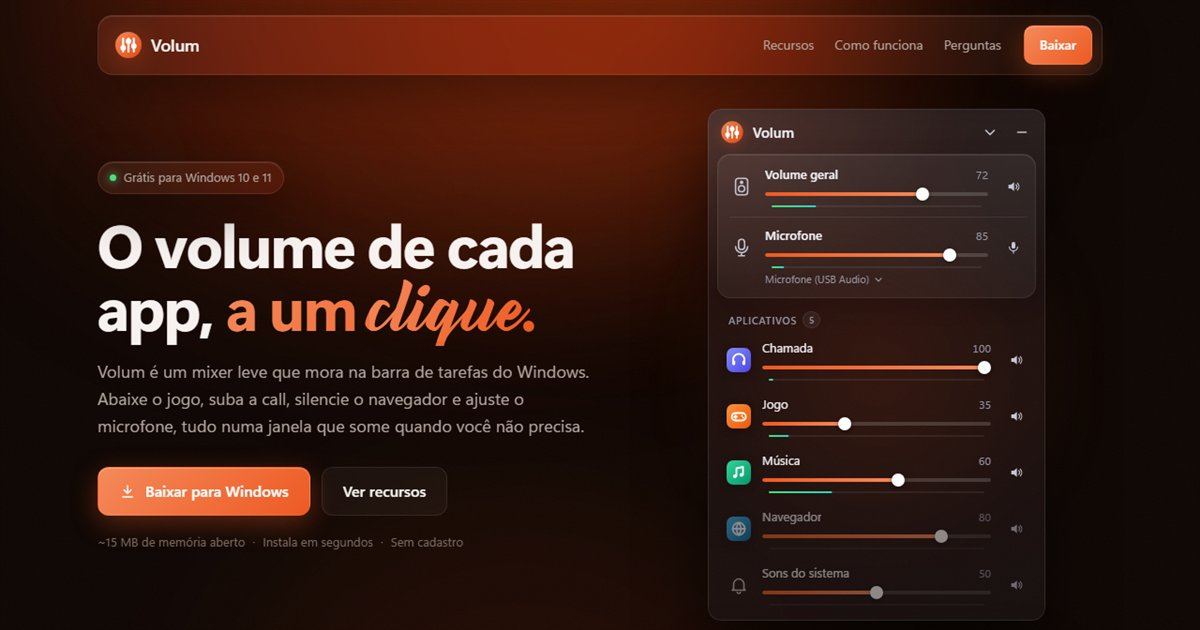
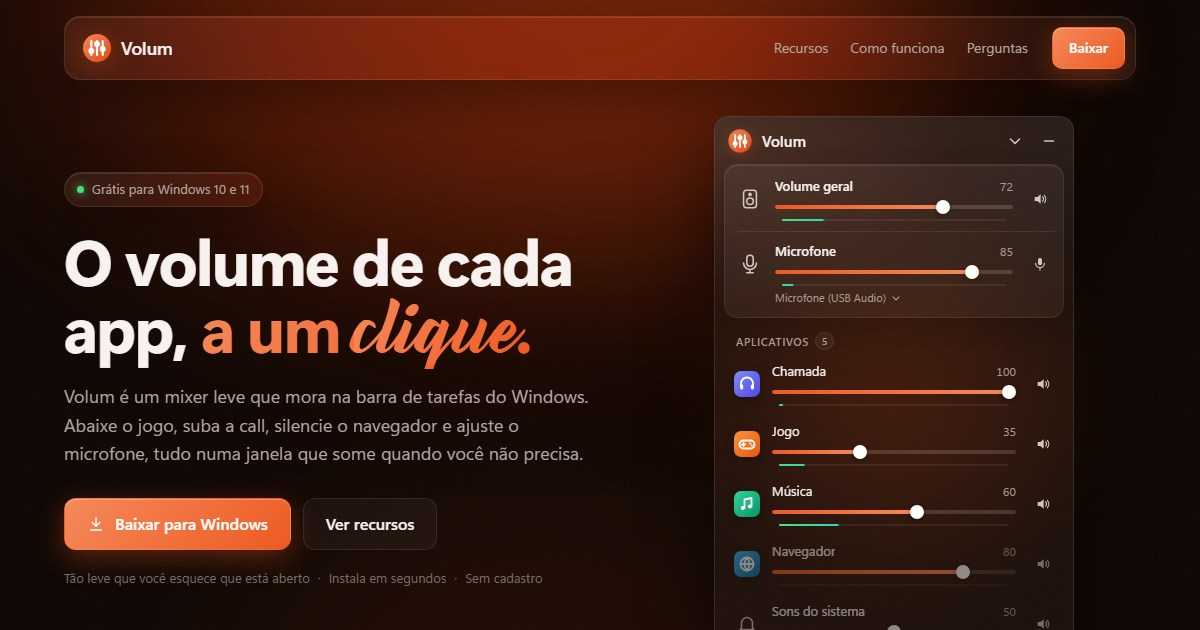
Site: leveza sem números de memória
- Frase "Tão leve que você esquece que está aberto" no topo
- Card de números: "1 clique para abrir" no lugar dos 15 MB
- Card "Leve de verdade" e pergunta frequente sem números de memória
- og.jpg atualizada com o texto novo

diff --git a/site/index.html b/site/index.html
@@ -627,7 +627,7 @@
           </a>
           <a class="btn btn-ghost" href="#recursos">Ver recursos</a>
         </div>
-        <div class="meta intro" style="--i:4"><span>~15 MB no Modo leve</span><span>Instala em segundos</span><span>Sem cadastro</span></div>
+        <div class="meta intro" style="--i:4"><span>Tão leve que você esquece que está aberto</span><span>Instala em segundos</span><span>Sem cadastro</span></div>
       </div>
 
       <!-- Demo interativa: é a interface do app de verdade (demo.html), dá para mexer em tudo -->
@@ -647,7 +647,7 @@
 
     <!-- ===================== Números (contam ao aparecer) ===================== -->
     <div class="stats" data-stagger>
-      <div class="stat glass"><b><span data-count="15">15</span> MB</b><span>de memória no Modo leve</span></div>
+      <div class="stat glass"><b><span data-count="1">1</span></b><span>clique para abrir</span></div>
       <div class="stat glass"><b>~<span data-count="0">0</span>%</b><span>de processador parado</span></div>
       <div class="stat glass"><b><span data-count="0.1" data-decimals="1">0,1</span> MB</b><span>por atualização</span></div>
       <div class="stat glass"><b><span data-count="3">3</span></b><span>idiomas</span></div>
@@ -673,7 +673,7 @@
         <article class="card glass">
           <div class="icon"><svg viewBox="0 0 24 24" fill="none" stroke="currentColor" stroke-width="1.8" stroke-linecap="round" stroke-linejoin="round"><path d="M13 2L4 14h7l-1 8 9-12h-7l1-8z"/></svg></div>
           <h3>Leve de verdade</h3>
-          <p>Parado, praticamente não usa processador. Por padrão fica pronto na memória para abrir na hora; no Modo leve usa cerca de 15 MB e desliga os efeitos, para PCs mais simples.</p>
+          <p>Parado, praticamente não usa processador. Fica quietinho na bandeja e não disputa espaço com seus jogos e programas. Para PCs mais simples, o Modo leve desliga os efeitos e economiza ainda mais memória.</p>
         </article>
         <article class="card glass">
           <div class="icon"><svg viewBox="0 0 24 24" fill="none" stroke="currentColor" stroke-width="1.8" stroke-linecap="round" stroke-linejoin="round"><rect x="3" y="4" width="18" height="16" rx="4"/><path d="M3 9h18" opacity=".5"/></svg></div>
@@ -735,7 +735,7 @@
         </details>
         <details class="glass">
           <summary>Ele deixa o computador mais lento?</summary>
-          <p>Não. Parado, ele praticamente não usa processador. Por padrão, a interface fica "dormindo" na memória (cerca de 125 MB) para abrir na hora. Se preferir economizar, o Modo leve deixa o Volum em cerca de 15 MB — ele só demora um pouquinho mais para abrir.</p>
+          <p>Não. Parado, ele praticamente não usa processador. Por padrão, a interface fica "dormindo" para abrir na hora. Se preferir economizar memória, ligue o Modo leve: o Volum só demora um pouquinho mais para abrir.</p>
         </details>
         <details class="glass">
           <summary>Funciona no Windows 10?</summary>
